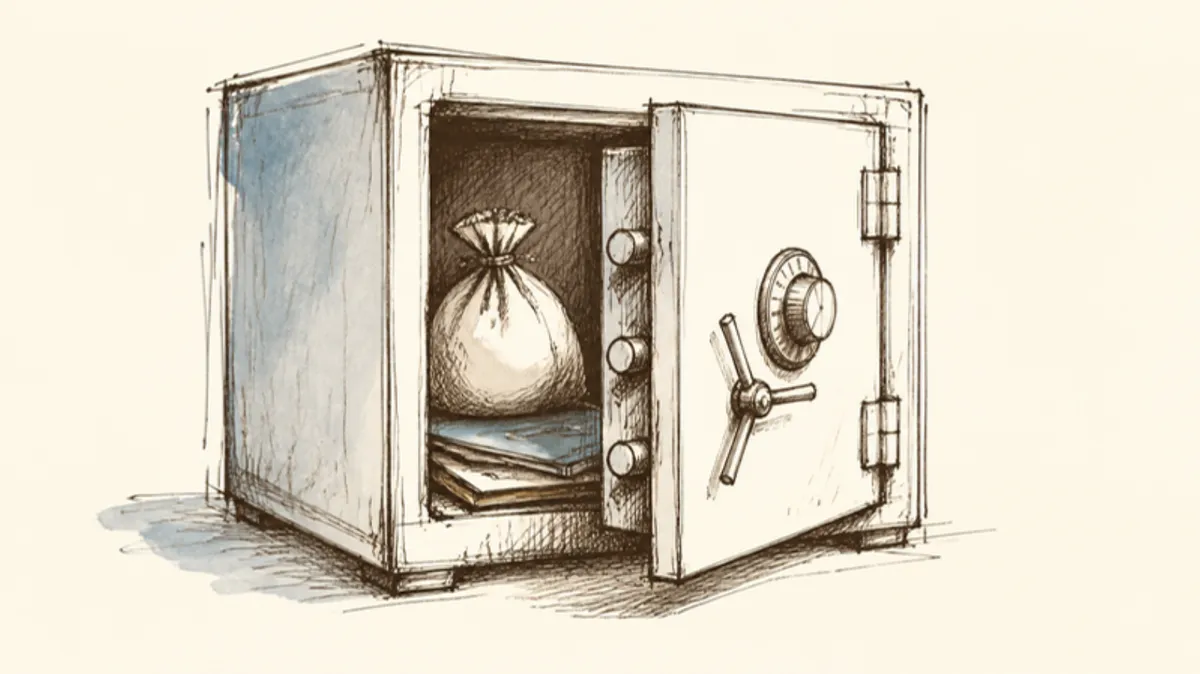
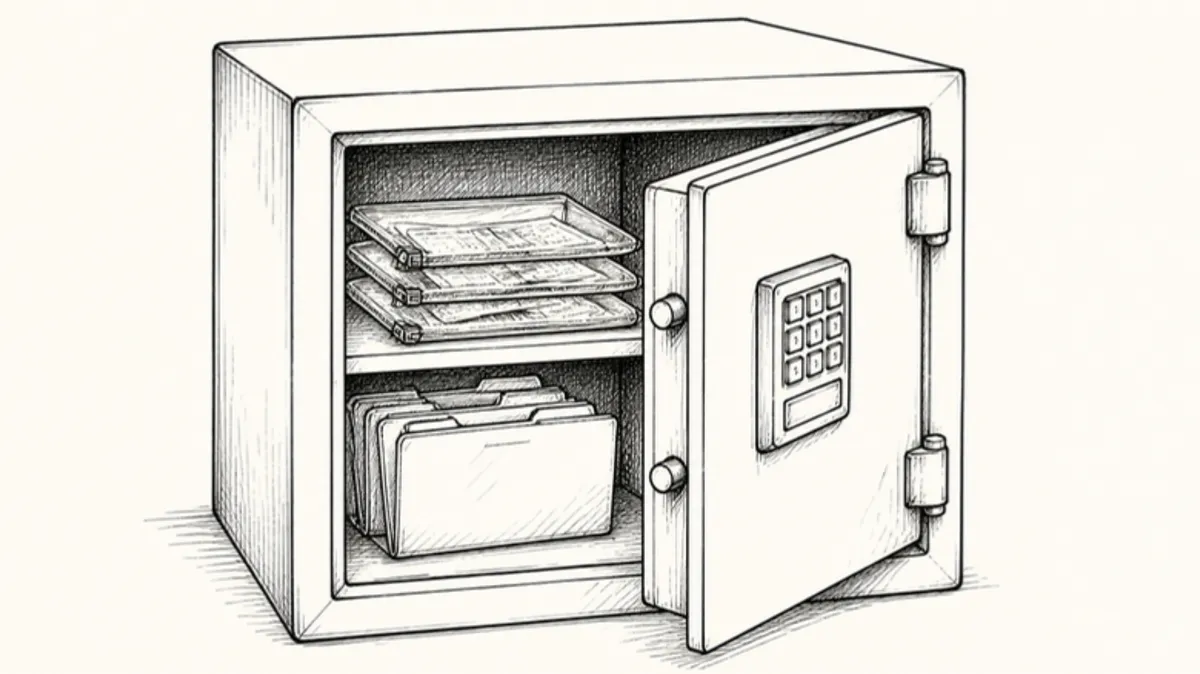
業務用金庫の記事の挿絵を手描き線画に描き直し（現金袋を現金管理ポーチに）

diff --git a/content/posts/business-safe-guide.md b/content/posts/business-safe-guide.md
@@ -65,7 +65,7 @@ picks:
 
 お店の売上金や、契約書・通帳などの大事な書類。しまっておく場所を考えると、「金庫を買えば安心」と思いますよね。ただ、金庫には**「火災に強い耐火金庫」と「盗難に強い防盗金庫」**があり、できることがちがいます。
 
-![扉を少し開けた業務用金庫と、中の現金袋と書類のイラスト](/images/posts/business-safe-guide-1.webp)
+![扉を開けたテンキー式の業務用金庫と、中に重ねた現金管理ポーチと書類のイラスト](/images/posts/business-safe-guide-1.webp)
 
 この記事では、業務用金庫を選ぶときに確かめたいことを、ポイントにしぼってまとめます。
 
